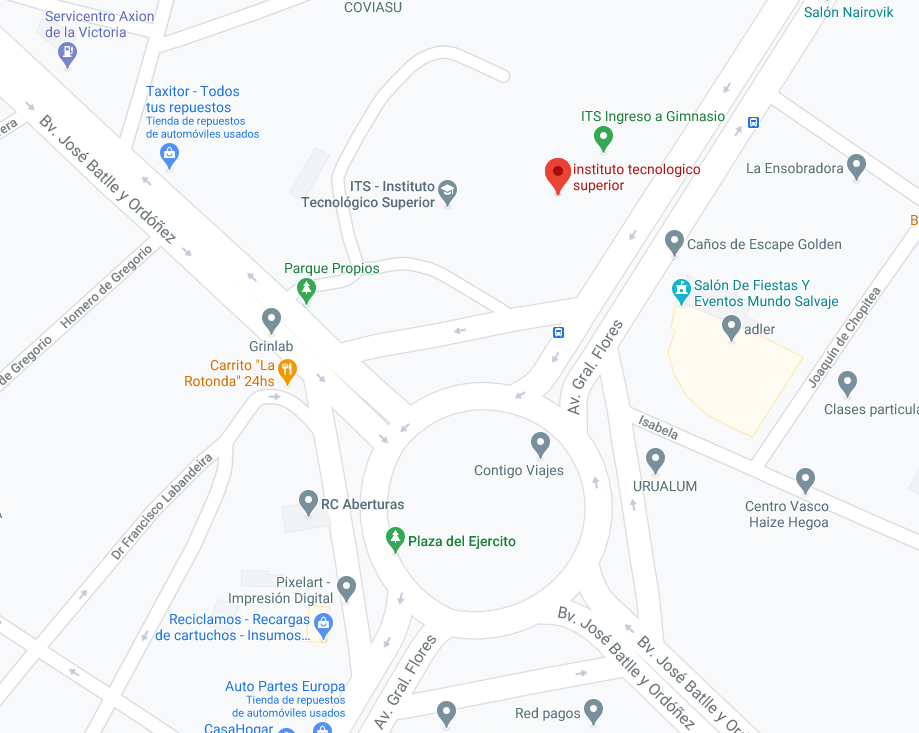
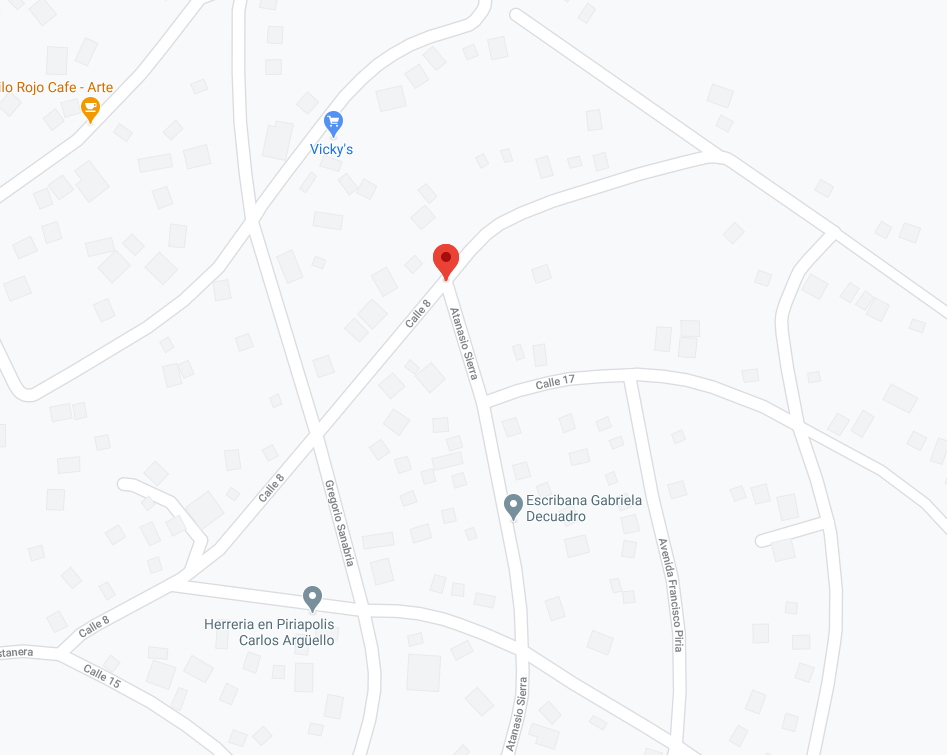
Carpeta actualizada de la página web

diff --git a/Pagina web/index.html b/Pagina web/index.html
@@ -15,7 +15,7 @@
 			<div class="logo">
 				
 			
-				<h1><div class="name1">GUAU</div><img class="logo-header" src="img/logo3-2.png" width="17%" height="100%"><div class="name2">HOTEL CANINO</div></h1>
+				<h1><div class="name1">GUAU</div><a href="index.html"><img class="logo-header" src="img/logo3-2.png" width="17%" height="100%"></a><div class="name2">HOTEL CANINO</div></h1>
 			</div>
 
 			<div class="social">
@@ -70,12 +70,13 @@
 		<p class="hotel-info"><i>Lorem ipsum dolor sit amet, consectetur adipiscing elit, sed do eiusmod tempor incididunt ut labore et dolore magna aliqua. Ut enim ad minim veniam, quis nostrud exercitation ullamco laboris nisi ut aliquip ex ea commodo consequat. Duis aute irure dolor in reprehenderit in voluptate velit esse cillum dolore eu fugiat nulla pariatur. Excepteur sint occaecat cupidatat non proident, sunt in culpa qui officia deserunt mollit anim id est laborum.</i></p><br>
 		<p class="hotel-info2"><i>Sed ut perspiciatis unde omnis iste natus error sit voluptatem accusantium doloremque laudantium, totam rem aperiam, eaque ipsa quae ab illo inventore veritatis et quasi architecto beatae vitae dicta sunt explicabo. Nemo enim ipsam voluptatem quia voluptas sit aspernatur aut odit aut fugit, sed quia consequuntur magni dolores eos qui ratione voluptatem sequi nesciunt. Neque porro quisquam est, qui dolorem ipsum quia dolor sit amet, consectetur, adipisci velit, sed quia non numquam eius modi tempora incidunt ut labore et dolore magnam aliquam quaerat voluptatem. Ut enim ad minima veniam, quis nostrum exercitationem ullam corporis suscipit laboriosam, nisi ut aliquid ex ea commodi consequatur? Quis autem vel eum iure reprehenderit qui in ea voluptate velit esse quam nihil molestiae consequatur, vel illum qui dolorem eum fugiat quo voluptas nulla pariatur?"</i></p>
 	</div>
-
+	<div>
 	<div class="ubicacion">
 		<h3 class="titulo1"><b><i>¿Dónde nos encontramos?</i></b></h3>
 	</div>
-	<div class="geo">
-		<img src="img/geo_location.png" width="100%" height="100%" alt="Imagen de la localización del Hotel Canino GUAU. Avenida General Flores, esq. Boulevar José Batlle y Ordoñez">
+		<div class="geo">
+			<img src="img/geo_location.png" width="100%" height="100%" alt="Imagen de la localización del Hotel Canino GUAU. Calle 8 y Anastasio Sierra, Barrio La Falda (Piriápolis)">
+		</div>
 	</div>
 
 	
@@ -84,7 +85,7 @@
 		<div class="rooms">
 			<img  src="img/hotel_outside1.jpg" width="36%" height="500px" border=2 alt="Imagen de parte del patio con el que cuenta el Hotel Canino GUAU">
 			<img class="img" src="img/pool.jpg" width="30%" height="500px" border=2 alt="Imagen de una de las piscinas con las que cuenta el Hotel Canino GUAU">
-			<img class="img" src="img/room4.jpg" width="30.9%" height="500px" border=2 align=bottom alt="Imagen de la localización del Hotel Canino GUAU. Avenida General Flores, Montevideo Departamento de Montevideo">	
+			<img class="img" src="img/room4.jpg" width="30.9%" height="500px" border=2 align=bottom alt="Imagen de uno de los cuartos con los que cuenta el Hotel Canino GUAU.">	
 		</div>
 		<div class="rooms2">
 			<img  src="img/hotel_outside1.jpg" width="50%" height="500px" border=2 alt="Imagen de parte del patio con el que cuenta el Hotel Canino GUAU">	
@@ -102,12 +103,12 @@
 	<div class="footer">
 		<div class="content-footer">	
 			<table class="tabla-footer">
-				<td><a class="button opt1-footer" href="file:///D:/Facu/Utu%203ro%20BP/Proyecto%20BinOP/pre%201ra%20entrega/web/webp/web%20v2/about.html">El Hotel</a></td>
-				<td><a class="button opt2-footer" href="file:///D:/Facu/Utu%203ro%20BP/Proyecto%20BinOP/pre%201ra%20entrega/web/webp/web%20v2/rooms.html">Habitaciones</a></td>
-				<td><a class="button opt3-footer" href="file:///D:/Facu/Utu%203ro%20BP/Proyecto%20BinOP/pre%201ra%20entrega/web/webp/web%20v2/booking.html">Reservas</a></td>
-				<td><a class="button opt4-footer" href="file:///D:/Facu/Utu%203ro%20BP/Proyecto%20BinOP/pre%201ra%20entrega/web/webp/web%20v2/contact_us.html">Contacto</a></td>
+				<td><a class="button opt1-footer" href="about.html">El Hotel</a></td>
+				<td><a class="button opt2-footer" href="rooms.html">Habitaciones</a></td>
+				<td><a class="button opt3-footer" href="booking.html">Reservas</a></td>
+				<td><a class="button opt4-footer" href="contact.html">Contacto</a></td>
 			</table>
-				<p class="footer-info1">Avenida General Flores, esq. Boulevar José Batlle y Ordoñez<br>
+				<p class="footer-info1">Calle 8 y Anastasio Sierra, Barrio La Falda (Piriápolis)<br>
 				Teléfonos: (+598) 2288-66-99 | (+598) 096-956-589</p>
 				<p class="footer-info2">Reservas: <a class="footer-mail" href="https://www.gmail.com">hotelcaninoguauinfo@gmail.com</a></p>
 				<p class="footer-info3">© 2020. Hotel Canino GUAU - Todos los derechos reservados.</p>

diff --git a/Pagina web/about.html b/Pagina web/about.html
@@ -16,7 +16,7 @@
 			<div class="logo">
 				
 			
-				<h1><div class="name1">GUAU</div><img class="logo-header" src="img/logo3-2.png" width="17%" height="100%"><div class="name2">HOTEL CANINO</div></h1>
+				<h1><div class="name1">GUAU</div><a href="index.html"><img class="logo-header" src="img/logo3-2.png" width="17%" height="100%"></a><div class="name2">HOTEL CANINO</div></h1>
 			</div>
 
 			<div class="social">
@@ -73,16 +73,15 @@
 		Ut enim ad minima veniam, quis nostrum exercitationem ullam corporis suscipit laboriosam, nisi ut aliquid ex ea commodi consequatur?</i></p>
 	</div>
 	<!--Termina contenido de la pagina-->
-	<!--Comienza footer-->
 	<div class="footer">
 		<div class="content-footer">	
 			<table class="tabla-footer">
-				<td><a class="button opt1-footer" href="file:///D:/Facu/Utu%203ro%20BP/Proyecto%20BinOP/pre%201ra%20entrega/web/webp/web%20v2/about.html">El Hotel</a></td>
-				<td><a class="button opt2-footer" href="file:///D:/Facu/Utu%203ro%20BP/Proyecto%20BinOP/pre%201ra%20entrega/web/webp/web%20v2/rooms.html">Habitaciones</a></td>
-				<td><a class="button opt3-footer" href="file:///D:/Facu/Utu%203ro%20BP/Proyecto%20BinOP/pre%201ra%20entrega/web/webp/web%20v2/booking.html">Reservas</a></td>
-				<td><a class="button opt4-footer" href="file:///D:/Facu/Utu%203ro%20BP/Proyecto%20BinOP/pre%201ra%20entrega/web/webp/web%20v2/contact_us.html">Contacto</a></td>
+				<td><a class="button opt1-footer" href="about.html">El Hotel</a></td>
+				<td><a class="button opt2-footer" href="rooms.html">Habitaciones</a></td>
+				<td><a class="button opt3-footer" href="booking.html">Reservas</a></td>
+				<td><a class="button opt4-footer" href="contact.html">Contacto</a></td>
 			</table>
-				<p class="footer-info1">Avenida General Flores, esq. Boulevar José Batlle y Ordoñez<br>
+				<p class="footer-info1">Calle 8 y Anastasio Sierra, Barrio La Falda (Piriápolis)<br>
 				Teléfonos: (+598) 2288-66-99 | (+598) 096-956-589</p>
 				<p class="footer-info2">Reservas: <a class="footer-mail" href="https://www.gmail.com">hotelcaninoguauinfo@gmail.com</a></p>
 				<p class="footer-info3">© 2020. Hotel Canino GUAU - Todos los derechos reservados.</p>

diff --git a/Pagina web/booking.html b/Pagina web/booking.html
@@ -16,7 +16,7 @@
 			<div class="logo">
 				
 			
-				<h1><div class="name1">GUAU</div><img class="logo-header" src="img/logo3-2.png" width="17%" height="100%"><div class="name2">HOTEL CANINO</div></h1>
+				<h1><div class="name1">GUAU</div><a href="index.html"><img class="logo-header" src="img/logo3-2.png" width="17%" height="100%"></a><div class="name2">HOTEL CANINO</div></h1>
 			</div>
 
 			<div class="social">
@@ -131,12 +131,12 @@
 	<div class="footer">
 		<div class="content-footer">	
 			<table class="tabla-footer">
-				<td><a class="button opt1-footer" href="file:///D:/Facu/Utu%203ro%20BP/Proyecto%20BinOP/pre%201ra%20entrega/web/webp/web%20v2/about.html">El Hotel</a></td>
-				<td><a class="button opt2-footer" href="file:///D:/Facu/Utu%203ro%20BP/Proyecto%20BinOP/pre%201ra%20entrega/web/webp/web%20v2/rooms.html">Habitaciones</a></td>
-				<td><a class="button opt3-footer" href="file:///D:/Facu/Utu%203ro%20BP/Proyecto%20BinOP/pre%201ra%20entrega/web/webp/web%20v2/booking.html">Reservas</a></td>
-				<td><a class="button opt4-footer" href="file:///D:/Facu/Utu%203ro%20BP/Proyecto%20BinOP/pre%201ra%20entrega/web/webp/web%20v2/contact_us.html">Contacto</a></td>
+				<td><a class="button opt1-footer" href="about.html">El Hotel</a></td>
+				<td><a class="button opt2-footer" href="rooms.html">Habitaciones</a></td>
+				<td><a class="button opt3-footer" href="booking.html">Reservas</a></td>
+				<td><a class="button opt4-footer" href="contact.html">Contacto</a></td>
 			</table>
-				<p class="footer-info1">Avenida General Flores, esq. Boulevar José Batlle y Ordoñez<br>
+				<p class="footer-info1">Calle 8 y Anastasio Sierra, Barrio La Falda (Piriápolis)<br>
 				Teléfonos: (+598) 2288-66-99 | (+598) 096-956-589</p>
 				<p class="footer-info2">Reservas: <a class="footer-mail" href="https://www.gmail.com">hotelcaninoguauinfo@gmail.com</a></p>
 				<p class="footer-info3">© 2020. Hotel Canino GUAU - Todos los derechos reservados.</p>

diff --git a/Pagina web/move.html b/Pagina web/move.html
@@ -16,7 +16,7 @@
 			<div class="logo">
 				
 			
-				<h1><div class="name1">GUAU</div><img class="logo-header" src="img/logo3-2.png" width="17%" height="100%"><div class="name2">HOTEL CANINO</div></h1>
+				<h1><div class="name1">GUAU</div><a href="index.html"><img class="logo-header" src="img/logo3-2.png" width="17%" height="100%"></a><div class="name2">HOTEL CANINO</div></h1>
 			</div>
 
 			<div class="social">
@@ -141,12 +141,12 @@
 	<div class="footer">
 		<div class="content-footer">	
 			<table class="tabla-footer">
-				<td><a class="button opt1-footer" href="file:///D:/Facu/Utu%203ro%20BP/Proyecto%20BinOP/pre%201ra%20entrega/web/webp/web%20v2/about.html">El Hotel</a></td>
-				<td><a class="button opt2-footer" href="file:///D:/Facu/Utu%203ro%20BP/Proyecto%20BinOP/pre%201ra%20entrega/web/webp/web%20v2/rooms.html">Habitaciones</a></td>
-				<td><a class="button opt3-footer" href="file:///D:/Facu/Utu%203ro%20BP/Proyecto%20BinOP/pre%201ra%20entrega/web/webp/web%20v2/booking.html">Reservas</a></td>
-				<td><a class="button opt4-footer" href="file:///D:/Facu/Utu%203ro%20BP/Proyecto%20BinOP/pre%201ra%20entrega/web/webp/web%20v2/contact_us.html">Contacto</a></td>
+				<td><a class="button opt1-footer" href="about.html">El Hotel</a></td>
+				<td><a class="button opt2-footer" href="rooms.html">Habitaciones</a></td>
+				<td><a class="button opt3-footer" href="booking.html">Reservas</a></td>
+				<td><a class="button opt4-footer" href="contact.html">Contacto</a></td>
 			</table>
-				<p class="footer-info1">Avenida General Flores, esq. Boulevar José Batlle y Ordoñez<br>
+				<p class="footer-info1">Calle 8 y Anastasio Sierra, Barrio La Falda (Piriápolis)<br>
 				Teléfonos: (+598) 2288-66-99 | (+598) 096-956-589</p>
 				<p class="footer-info2">Reservas: <a class="footer-mail" href="https://www.gmail.com">hotelcaninoguauinfo@gmail.com</a></p>
 				<p class="footer-info3">© 2020. Hotel Canino GUAU - Todos los derechos reservados.</p>

diff --git a/Pagina web/contact.html b/Pagina web/contact.html
@@ -16,7 +16,7 @@
 			<div class="logo">
 				
 			
-				<h1><div class="name1">GUAU</div><img class="logo-header" src="img/logo3-2.png" width="17%" height="100%"><div class="name2">HOTEL CANINO</div></h1>
+				<h1><div class="name1">GUAU</div><a href="index.html"><img class="logo-header" src="img/logo3-2.png" width="17%" height="100%"></a><div class="name2">HOTEL CANINO</div></h1>
 			</div>
 
 			<div class="social">
@@ -88,12 +88,12 @@
 <div class="footer">
 		<div class="content-footer">	
 			<table class="tabla-footer">
-				<td><a class="button opt1-footer" href="file:///D:/Facu/Utu%203ro%20BP/Proyecto%20BinOP/pre%201ra%20entrega/web/webp/web%20v2/about.html">El Hotel</a></td>
-				<td><a class="button opt2-footer" href="file:///D:/Facu/Utu%203ro%20BP/Proyecto%20BinOP/pre%201ra%20entrega/web/webp/web%20v2/rooms.html">Habitaciones</a></td>
-				<td><a class="button opt3-footer" href="file:///D:/Facu/Utu%203ro%20BP/Proyecto%20BinOP/pre%201ra%20entrega/web/webp/web%20v2/booking.html">Reservas</a></td>
-				<td><a class="button opt4-footer" href="file:///D:/Facu/Utu%203ro%20BP/Proyecto%20BinOP/pre%201ra%20entrega/web/webp/web%20v2/contact_us.html">Contacto</a></td>
+				<td><a class="button opt1-footer" href="about.html">El Hotel</a></td>
+				<td><a class="button opt2-footer" href="rooms.html">Habitaciones</a></td>
+				<td><a class="button opt3-footer" href="booking.html">Reservas</a></td>
+				<td><a class="button opt4-footer" href="contact.html">Contacto</a></td>
 			</table>
-				<p class="footer-info1">Avenida General Flores, esq. Boulevar José Batlle y Ordoñez<br>
+				<p class="footer-info1">Calle 8 y Anastasio Sierra, Barrio La Falda (Piriápolis)<br>
 				Teléfonos: (+598) 2288-66-99 | (+598) 096-956-589</p>
 				<p class="footer-info2">Reservas: <a class="footer-mail" href="https://www.gmail.com">hotelcaninoguauinfo@gmail.com</a></p>
 				<p class="footer-info3">© 2020. Hotel Canino GUAU - Todos los derechos reservados.</p>

diff --git a/Pagina web/css/style2.css b/Pagina web/css/style2.css
@@ -1244,7 +1244,7 @@ body, html {
 
 @media screen and (max-width: 1008px) {
 body, html {
-	/*background-color: transparent;*/
+	/*background-color: red;*/
 }
 
 .logo{
@@ -1291,7 +1291,7 @@ body, html {
 
 @media screen and (max-width: 933px) {
 body, html {
-	/*background-color: transparent;*/
+	/*background-color: green;*/
 }
 
 .logo{
@@ -1311,7 +1311,7 @@ body, html {
 }
 
 .geo{
-	margin: 0% 0% 0% 7%;
+	margin: 1% 0% 0% 7%;
 	padding: 0% 0% 0% 0%;
 	width: 86%;
 	height: 500px;
@@ -1340,7 +1340,7 @@ body, html {
 
 @media screen and (max-width: 891px) {
 body, html {
-	/*background-color: transparent;*/
+	/*background-color: violet;*/
 }
 
 .logo{
@@ -1387,7 +1387,7 @@ body, html {
 
 @media screen and (max-width: 873px) {
 body, html {
-	/*background-color: transparent;*/
+	/*background-color: blue;*/
 }
 
 .logo{
@@ -1413,7 +1413,7 @@ body, html {
 }
 
 .geo{
-	margin: 0% 0% 0% 3%;
+	margin: 1% 0% 0% 3%;
 	padding: 0% 0% 0% 0%;
 	width: 95%;
 	height: 500px;
@@ -1584,7 +1584,7 @@ body, html {
 
 @media screen and (max-width: 629px) {
 body, html {
-	/*background-color: transparent;*/
+	/*background-color: transparent;
 }
 
 .social{
